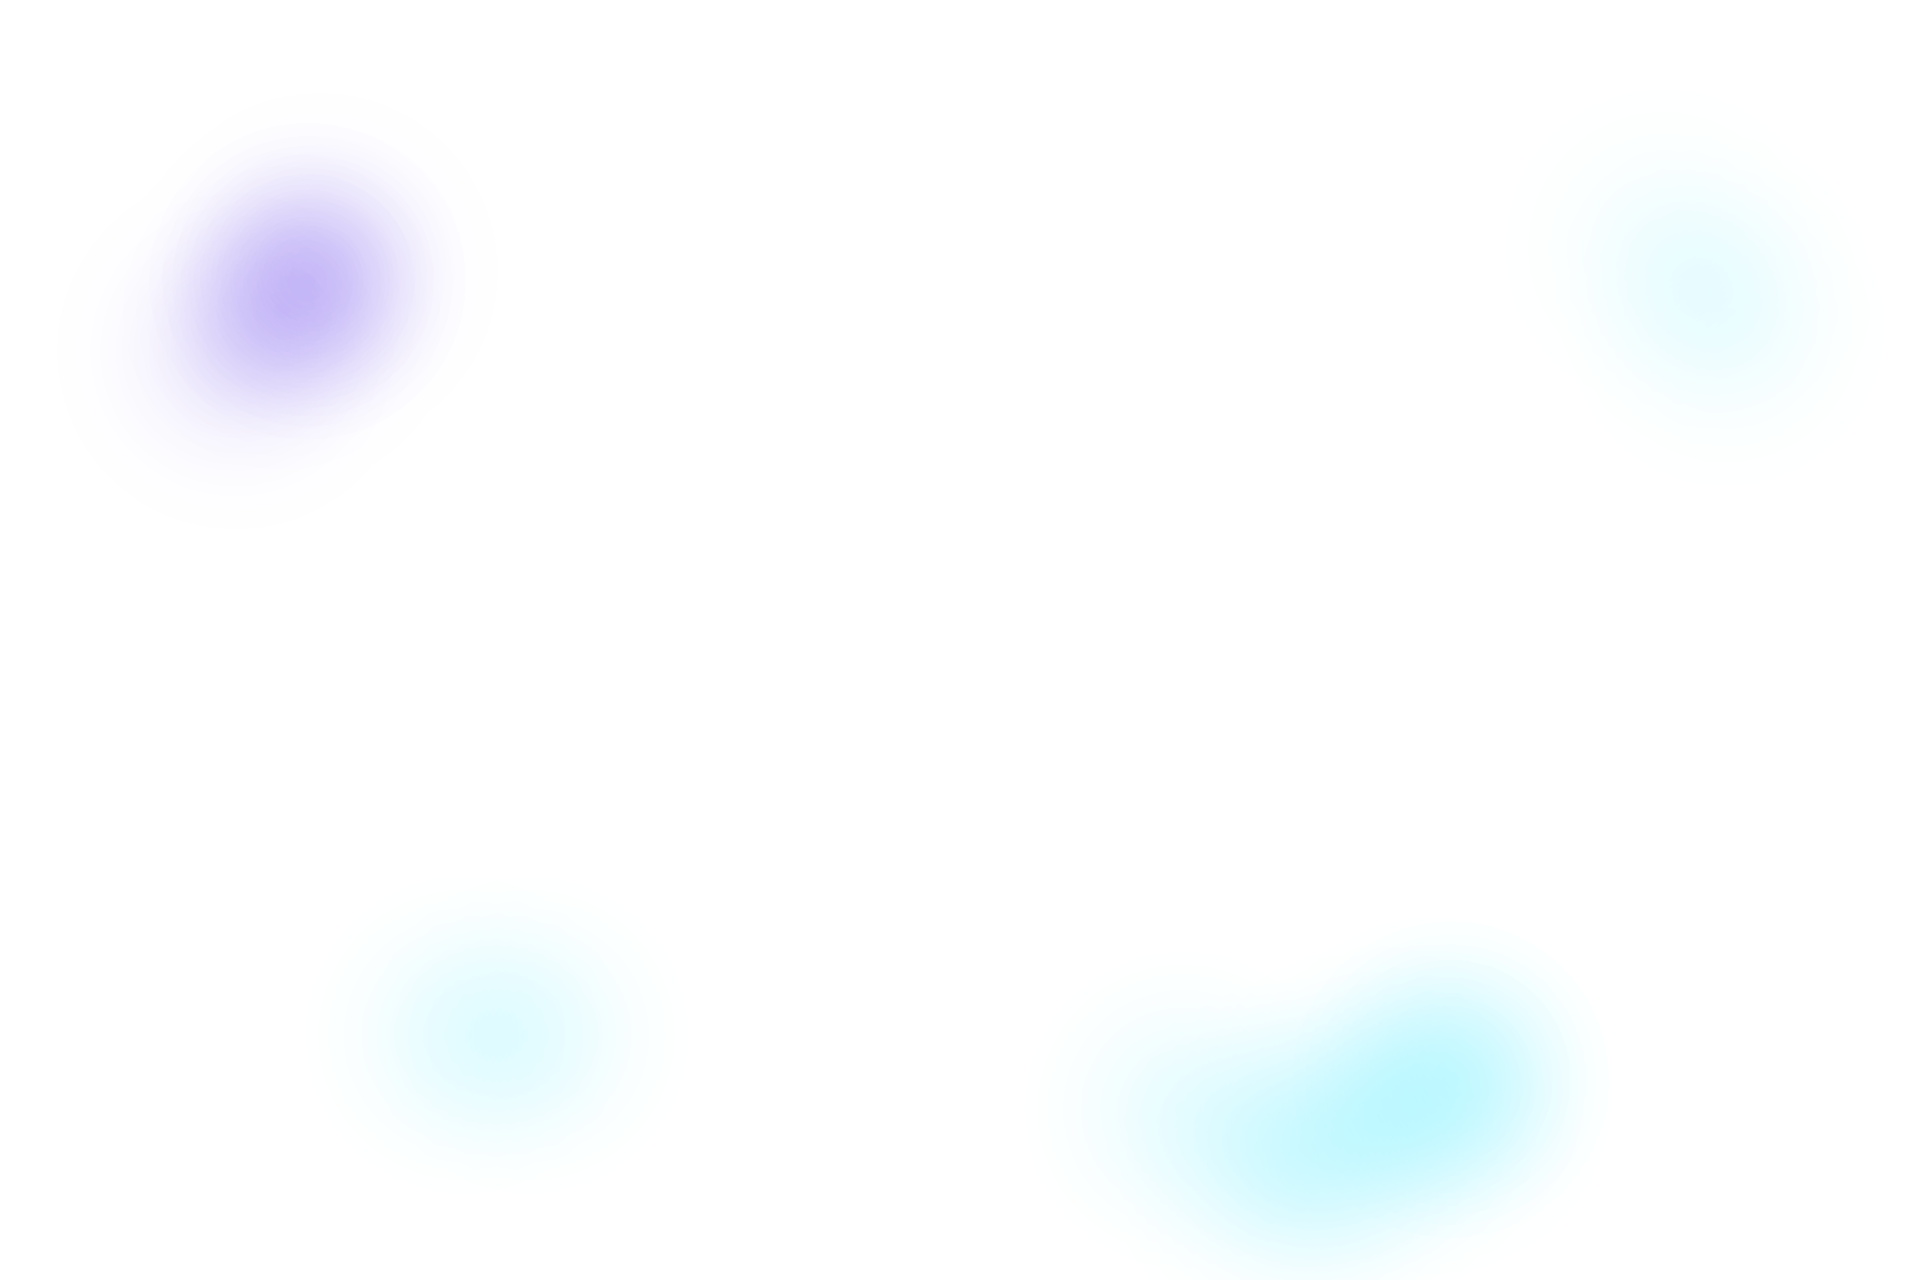
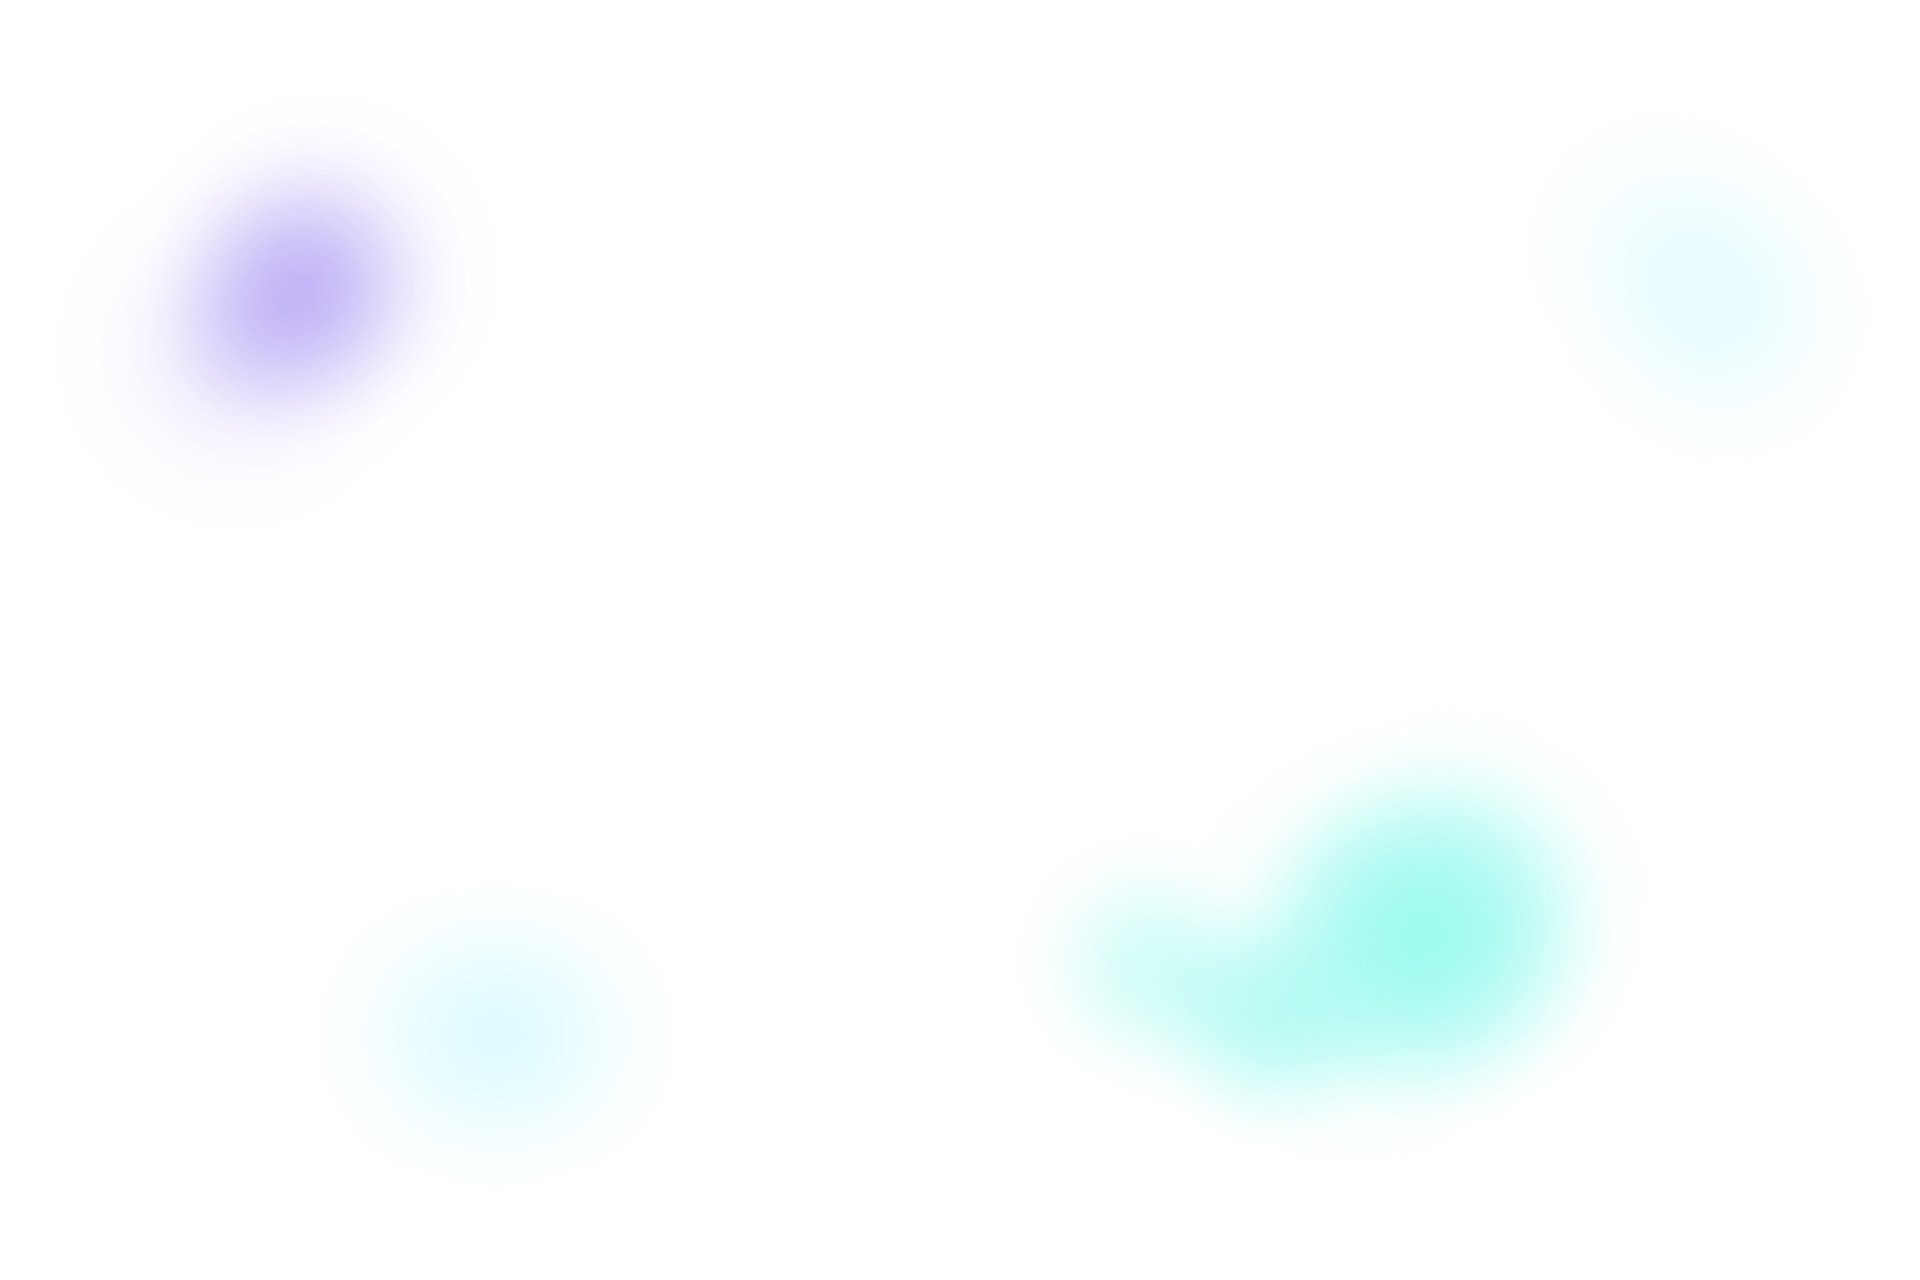
Updated milky way. It's really cool now.
FEAT: New milky way stars, blue and yellow
FEAT: New milky way image, which is just a circle really.
TEST: Tried doing something with index.md
TEST: New test.html for creating the HTML to copy-paste into .md files.

Changed region(s): [[0.5625, 0.5938, 0.8438, 0.9688]]

diff --git a/_layouts/test.html b/_layouts/test.html
@@ -1,0 +1,62 @@
+<!DOCTYPE html>
+<html lang="en-US">
+  <head>
+    <meta charset='utf-8'>
+    <meta http-equiv="X-UA-Compatible" content="IE=edge">
+    <meta name="viewport" content="width=device-width, initial-scale=1">
+    <link rel="stylesheet" href="/assets/css/style.css?v=">
+    <!-- start custom head snippets, customize with your own _includes/head-custom.html file -->
+
+<!-- Setup theme-color -->
+<!-- start theme color meta headers -->
+<meta name="theme-color" content="#151515">
+<meta name="msapplication-navbutton-color" content="#151515">
+<meta name="apple-mobile-web-app-status-bar-style" content="black-translucent">
+<!-- end theme color meta headers -->
+
+
+<!-- Setup Google Analytics -->
+
+
+
+<!-- You can set your favicon here -->
+<!-- link rel="shortcut icon" type="image/x-icon" href="/favicon.ico" -->
+<link rel="icon" type="image/x-icon" href="hampter.jpg">
+
+<!-- end custom head snippets -->
+
+
+<!-- Begin Jekyll SEO tag v2.8.0 -->
+<title>Superkat</title>
+<meta name="generator" content="Jekyll v4.3.2" />
+<meta property="og:title" content="Superkat’s Awesome Website" />
+<meta property="og:locale" content="en_US" />
+<meta name="description" content="This is my awesome description for my awesome new website!" />
+<meta property="og:description" content="This is my awesome description for my awesome new website!" />
+<link rel="canonical" href="http://localhost:4000/" />
+<meta property="og:url" content="http://localhost:4000/" />
+<meta property="og:site_name" content="Superkat’s Awesome Website" />
+<meta property="og:type" content="website" />
+<meta name="twitter:card" content="summary" />
+<meta property="twitter:title" content="Superkat’s Awesome Website" />
+<script type="application/ld+json">
+{"@context":"https://schema.org","@type":"WebSite","description":"This is my awesome description for my awesome new website!","headline":"Superkat’s Awesome Website","name":"Superkat’s Awesome Website","url":"http://localhost:4000/"}</script>
+<!-- End Jekyll SEO tag -->
+
+  </head>
+  <body>
+    <header>
+      <div class="container">
+        <a id="a-title" href="/">
+            <h1>Superkat's Awesome Website</h1>
+          </a>
+        </section>
+      </div>
+    </header>
+    <div class="container">
+      <section id="main_content">
+        <p style="font-family: 'Trebuchet MS', 'Lucida Sans Unicode', 'Lucida Grande', 'Lucida Sans', Arial, sans-serif;">I'm</p>
+      </section>
+    </div>
+  </body>
+</html>

diff --git a/assets/css/style.css b/assets/css/style.css
@@ -87,7 +87,7 @@
     right: 0;
     width: 100%;
     height: 100%;
-    background-position: right -45px bottom 5%;
+    background-position: right bottom 5%;
     z-index: -3;
   }
 
@@ -103,14 +103,40 @@
   }
 
   .milkyway {
-    background: url(../images/milkyway.png) center center/cover no-repeat;
-    position: absolute;
-    top: 0;
-    left: 0;
+    background: url('../images/milkyway.png') no-repeat center center/contain;
+    position: fixed;
+    top: -50%;
+    left: 40%;
     width: 100%;
     height: 100%;
-    z-index: -2;
+    animation: rotate-milky-way 45s normal infinite;
+    transform-origin: center;
+    z-index: -1;
+}
+
+  .milkywaybluestars {
+    background: url(../images/milkywayBlueStars.png) no-repeat center center/contain;
+    position: fixed;
+    top: -50%;
+    left: 40%;
+    width: 100%;
+    height: 100%;
+    animation: rotate-milky-way 40s normal infinite;
+    transform-origin: center;
+    z-index: -1;
   }
+
+  .milkywayyellowstars {
+    background: url(../images/milkywayYellowStars.png) no-repeat center center/contain;
+    position: fixed;
+    top: -50%;
+    left: 40%;
+    width: 100%;
+    height: 100%;
+    animation: rotate-milky-way 120s normal infinite;
+    transform-origin: center;
+    z-index: -1;
+  }  
 
   .star-container:nth-of-type(1) .star-1 {
     background: url('../images/star.png') no-repeat center center/contain;
@@ -141,7 +167,7 @@
   .star-container:nth-of-type(3) .star-3 {
     background: url('../images/star3.png') no-repeat center center/contain;
     position: fixed;
-    top: -41.2%;
+    top: -27.2%;
     left: -42%;
     width: 100%;
     height: 100%;
@@ -154,7 +180,7 @@
   .star-container:nth-of-type(4) .star-4 {
     background: url('../images/star4.png') no-repeat center center/contain;
     position: fixed;
-    top: -32%;
+    top: -17%;
     left: -47%;
     width: 100%;
     height: 100%;
@@ -189,7 +215,12 @@
     to {
       transform: scale(0.7) rotate(-180deg);
     }
-  } 
+  }
+  
+  @keyframes rotate-milky-way {
+    from { transform: rotate(0deg); }
+    to { transform: rotate(360deg); }
+  }
   
   /* General & 'Reset' Stuff */
   .container {

diff --git a/_layouts/default.html b/_layouts/default.html
@@ -92,6 +92,13 @@
         <div class="milkyway-container">
           <div class="milkyway"></div>
         </div>
+        <div class="milkyway-container">
+          <div class="milkywaybluestars"></div>
+        </div>
+        <div class="milkyway-container">
+          <div class="milkywayyellowstars"></div>
+        </div>
+        <!-- <p style="border: 3px inset #a758ecb6; display: flex; padding: 3px; backdrop-filter: blur(0px) saturate(100%) brightness(50%);"></p> -->
         {{ content }}
       </section>
     </div>
